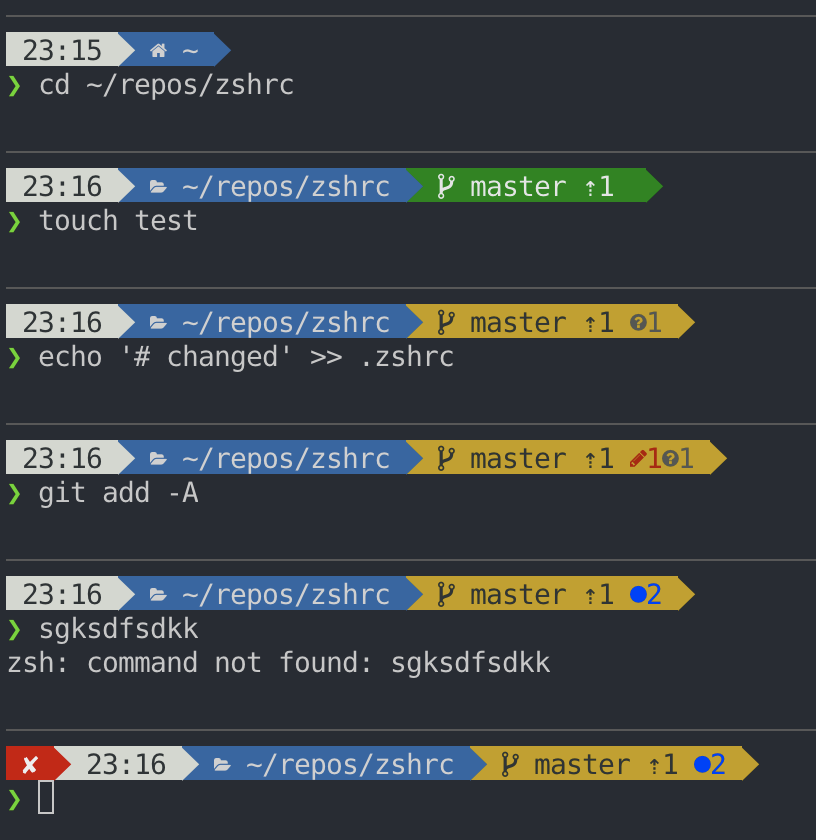
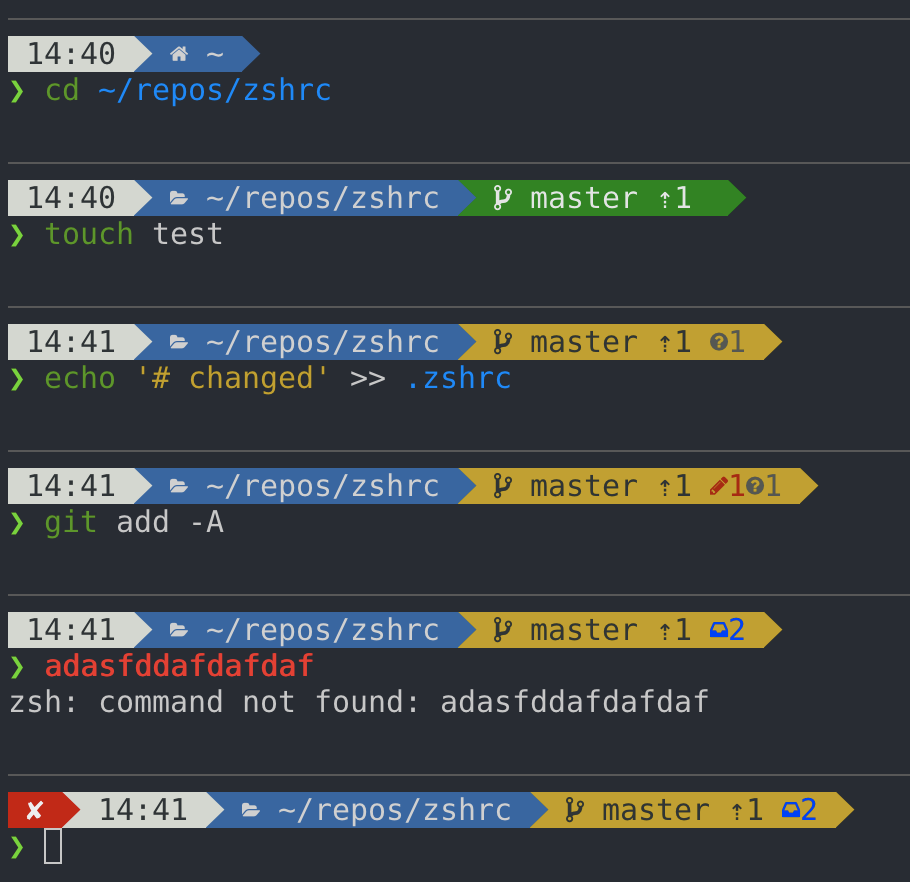
Add zsh-syntax-highlighting, revise README

diff --git a/README.md b/README.md
@@ -4,13 +4,16 @@ This is my Zsh configuration. Feel free to clone/copy and reuse.
 
 In August 2019, I migrated my work MacBook over to use [Zsh](https://en.wikipedia.org/wiki/Z_shell) (with [oh-my-zsh](https://ohmyz.sh/)) as my default shell. This repo contains the configuration I use, which as much as possible aims to mirror and enhance [my previous bash configuration](https://github.com/lucascosti/bashrc).
 
-I use [powerlevel10k](https://github.com/romkatv/powerlevel10k) (which is a faster implementation of [powerlevel9k](https://github.com/Powerlevel9k/powerlevel9k)) to customise the look of the prompt. 
-
 The main files that do the work are:
 
-* [`~/.zshrc`](.zshrc): Contains the templated oh-my-zsh options (mostly commented out), and also my custom git aliases and other miscellaneous functions.
-* [`~/zshscripts/themes/p10k-lucas.zsh`](zshscripts/themes/p10k-lucas.zsh): My custom powerlevel10k theme file. Powerlevel10k and this theme file are sourced in `.zshrc`. This theme uses glyphs that require a [Nerd Fonts-patched font](https://github.com/ryanoasis/nerd-fonts) in your terminal.
-  
-  <img src="https://raw.githubusercontent.com/lucascosti/zshrc/master/git-prompt.png" width="50%"> 
+* [`.zshrc`](.zshrc): Contains the templated oh-my-zsh options (mostly commented out), and also my custom git aliases and other miscellaneous functions.
+* [`zshscripts/themes/p10k-lucas.zsh`](zshscripts/themes/p10k-lucas.zsh): My custom powerlevel10k theme file. Powerlevel10k and this theme file are sourced in `.zshrc`. This theme uses glyphs that require a [Nerd Fonts-patched font](https://github.com/ryanoasis/nerd-fonts) in your terminal.
+
+I use the following scripts, which are stored in `zshscripts/` and are ignored in this repository. You can download/clone them from their own respective repos:
+
+* [Powerlevel10k](https://github.com/romkatv/powerlevel10k) (which is a faster implementation of [powerlevel9k](https://github.com/Powerlevel9k/powerlevel9k)) to customise the look of the prompt.
+* [zsh-syntax-highlighting](https://github.com/zsh-users/zsh-syntax-highlighting) to enable syntax highlighting for the command I enter at the prompt.
+
+<img src="https://raw.githubusercontent.com/lucascosti/zshrc/master/git-prompt.png" width="50%">
 
 Also included in this repo are the files for my old and briefly-used [oh-my-zsh theme](zshscripts/themes/old_oh-my-zsh_theme).
